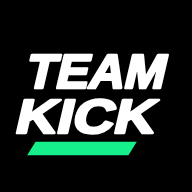
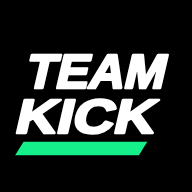
fix: 샘플 팀 번쩍임·로고 줄 길이·주로 뛰는 때 목록 (T28-T30)
사용자 제보 세 건과 공식 작성지침 대조 결과를 반영한다.

샘플 팀이 잠깐 보이던 것: demo 가 true 로 시작해서, 불러오는 동안 로그인한
사람에게도 샘플 팀이 먼저 보였다가 바뀌었다. 로그인 여부를 알기 전에는
아무것도 보여주지 않게 가림막을 뒀다. loading 값이 계산만 되고 쓰이지
않고 있었다.

로고 초록 줄을 보낸 그림에 가깝게 길게 늘였다. 아이콘 두 개도 다시 그렸다.

주로 뛰는 때를 자유 입력에서 목록 선택으로 바꾸고 "상관없음" 을 넣었다.
예전 기본값 "주말" 도 목록에 남겨 기존 팀이 그대로 통과하게 했다.

역할 권한은 이미 되어 있었다(운영진도 경기 만들기·참여 알림 가능). 확인만
하고 테스트로 굳혔다. 결과 확정·일정 변경·모집 여닫기는 주장만 한다.

LEGAL.md: 개인정보보호위원회 작성지침 2025.4 와 대조해 빠진 항목을 적었다.
국외 이전(호스팅·메일이 해외 사업자), 파기 절차, 쿠키, 보호책임자,
변경 고지가 빠져 있다.

검증(로컬): 테스트 79/79(5개 추가). 변이 검사 4종 모두 테스트가 잡았다 —
주로 뛰는 때 검증 제거 / 운영진 권한을 팀원에게 개방 / 주장 전용 동작을
운영진에게 개방 / 주장 역할도 바꿀 수 있게.
tsc 통과, lint 오류 77건 유지, 경고 19→18건(쓰지 않던 loading 을 쓰게 됨).

Claude-Session: https://claude.ai/code/session_0196CZKv6Zy8xEPrLkCwPaYf

Changed region(s): [[0.6562, 0.7188, 0.7812, 0.8125], [0.0625, 0.7188, 0.1875, 0.8125]]

diff --git a/app/screens.tsx b/app/screens.tsx
@@ -8,7 +8,7 @@ import {Table,TableHeader,TableHead,TableBody,TableRow,TableCell} from "@/compon
 import {toast} from "sonner";
 import {Upload,Plus,Search,MapPin,CalendarDays,Clock,Users,ShieldCheck,Copy,ExternalLink,Settings,Check,CheckCircle2,X,ArrowLeft,LogOut,Download,Pin,LoaderCircle,Goal,Handshake} from "lucide-react";
 import {Picker,Crest,imageUrl,Empty,GameBadge,GuestBadge,PlayerPhoto,Vote,koreanDate,time,localDay,inputTime,fromInput,opponent} from "./teamkick";
-import {currentVote,guestStatusOf,REGIONS,FORMATS,LEVELS,levelOf,type Row} from "@/lib/model";
+import {currentVote,guestStatusOf,REGIONS,FORMATS,LEVELS,DAYS,levelOf,type Row} from "@/lib/model";
 import {TERMS,PRIVACY} from "@/lib/legal";
 import {APP_VERSION} from "@/lib/version";
 export function AuthPanel({onDemo,mailReady=true,kakaoReady=false,resetToken=""}:{onDemo:()=>void;mailReady?:boolean;kakaoReady?:boolean;resetToken?:string}){
@@ -344,7 +344,7 @@ export function AppDialogs(p:any){
  {modal?.kind==="setOpponent"&&<form className="form-grid" onSubmit={e=>{e.preventDefault();save({type:"setOpponent",teamId:v.teamId,gameId:modal.gameId,external:form.external})}}>{label("상대팀 이름","external")}{submit("상대팀 저장")}</form>}
  {modal?.kind==="createGame"&&<form className="form-grid" onSubmit={e=>{e.preventDefault();save({...form,type:"createGame",teamId:v.teamId,start:fromInput(form.start),end:fromInput(form.end),deadline:form.deadline?fromInput(form.deadline):""})}}><div className="two-col fields">{label("경기 시작","start","datetime-local")}{label("경기 종료","end","datetime-local")}</div><VenuePicker v={v} field={field} ready={v.placeSearchReady!==false} demo={demo}/>{label("구장 이름","venue")}{label("구장 전체 주소","address")}<div className="two-col fields"><label>경기 형식<Picker value={form.format} onChange={(x:string)=>field("format",x)} options={["11인제","8인제","6인제","5인제"]}/></label>{label("필요 인원","needed","number")}</div>{label("투표 마감","deadline","datetime-local",false)}<p className="data-note">비워두면 경기 시작 시각에 마감돼요. 경기 시작보다 늦게는 정할 수 없어요.</p><div className="two-col fields"><label>지역<Picker value={form.region} onChange={(x:string)=>field("region",x)} options={REGIONS}/></label>{label("비용 안내 (원)","cost","number")}</div><label className="row"><Checkbox checked={form.secured} onCheckedChange={x=>field("secured",x===true)}/>구장을 확보했어요</label>{captain&&<label className="row"><Checkbox checked={form.listing} onCheckedChange={x=>{field("listing",x===true);if(x)field("external","")}}/>상대팀을 모집할게요</label>}{!form.listing&&label("외부 상대팀 이름 (없으면 미정)","external","text",false)}<label>팀 안내<textarea value={form.note??""} onChange={e=>field("note",e.target.value)}/></label>{submit("경기 등록하기")}</form>}
  {modal?.kind==="editTeam"&&!demo&&<div style={{marginBottom:18}}><ImageField title="팀 로고" ready={v.storageReady!==false} current={team?.logo} kind="teamLogo" teamId={v.teamId} disabled={busy} onSaved={(key:string)=>action({type:"setTeamLogo",teamId:v.teamId,key})}/></div>}
- {(modal?.kind==="createTeam"||modal?.kind==="editTeam")&&<form className="form-grid" onSubmit={e=>{e.preventDefault();save({...form,type:modal.kind,teamId:v.teamId})}}>{label("팀 이름","name")}<label>활동 지역<Picker value={form.region} onChange={(x:string)=>field("region",x)} options={REGIONS}/></label><div className="two-col fields"><label>주 경기 형식<Picker value={form.format??"11인제"} onChange={(x:string)=>field("format",x)} options={FORMATS}/></label><label>팀 실력<Picker value={levelOf(form.level)} onChange={(x:string)=>field("level",x)} options={LEVELS}/></label></div>{label("주로 뛰는 때","days")}<p className="data-note">예: 일요일 오전, 토요일 저녁. 상대팀을 찾을 때 보여요.</p><label>팀 소개<textarea value={form.description??""} onChange={e=>field("description",e.target.value)}/></label>{submit(modal.kind==="createTeam"?"운영자에게 등록 신청":"팀 정보 저장")}</form>}
+ {(modal?.kind==="createTeam"||modal?.kind==="editTeam")&&<form className="form-grid" onSubmit={e=>{e.preventDefault();save({...form,type:modal.kind,teamId:v.teamId})}}>{label("팀 이름","name")}<label>활동 지역<Picker value={form.region} onChange={(x:string)=>field("region",x)} options={REGIONS}/></label><div className="two-col fields"><label>주 경기 형식<Picker value={form.format??"11인제"} onChange={(x:string)=>field("format",x)} options={FORMATS}/></label><label>팀 실력<Picker value={levelOf(form.level)} onChange={(x:string)=>field("level",x)} options={LEVELS}/></label></div><label>주로 뛰는 때<Picker value={DAYS.includes(form.days)?form.days:"상관없음"} onChange={(x:string)=>field("days",x)} options={DAYS}/></label><p className="data-note">상대팀을 찾을 때 보여요. 정해두지 않았으면 <strong>상관없음</strong> 을 고르세요.</p><label>팀 소개<textarea value={form.description??""} onChange={e=>field("description",e.target.value)}/></label>{submit(modal.kind==="createTeam"?"운영자에게 등록 신청":"팀 정보 저장")}</form>}
  {modal?.kind==="openGuests"&&<form className="form-grid" onSubmit={e=>{e.preventDefault();save({type:"openGuests",teamId:v.teamId,gameId:modal.gameId,needed:Number(form.needed)})}}>{label("모집 인원","needed","number")}<p className="data-note">승인 인원이 모집 인원에 도달하면 서버에서 자동으로 마감돼요. 승인 대기자는 인원에 포함되지 않아요.</p>{submit("용병 모집 시작")}</form>}
  {modal?.kind==="applyGuest"&&<form className="form-grid" onSubmit={e=>{e.preventDefault();save({type:"applyGuest",teamId:modal.listing.teamId,gameId:modal.listing.gameId,name:form.name,position:form.position,number:form.number,message:form.message})}}><strong>{modal.listing.teamName}</strong><p className="data-note">{koreanDate(modal.listing.start)} {time(modal.listing.start)} · {modal.listing.venue}</p><p className="data-note">용병에게는 경기 정보만 공개되고 팀 내부 정보는 보이지 않아요.</p>{label("이름","name")}<div className="two-col fields">{label("등번호","number","number")}<label>포지션<Picker value={form.position??"MF"} onChange={(x:string)=>field("position",x)} options={["GK","DF","MF","FW"]}/></label></div>{label("남길 말","message","text",false)}{submit("용병 신청")}</form>}
  {(modal?.kind==="profile"||modal?.kind==="editMember")&&!demo&&modal.member&&<div style={{marginBottom:18}}><ImageField title="선수 사진" ready={v.storageReady!==false} current={modal.member.photo} kind="memberPhoto" teamId={v.teamId} memberId={modal.member.id} disabled={busy} onSaved={(key:string)=>action({type:"setMemberPhoto",teamId:v.teamId,memberId:modal.member.id,key}).then(()=>setModal(null))}/></div>}

diff --git a/app/teamkick.tsx b/app/teamkick.tsx
@@ -79,6 +79,9 @@ export default function TeamKick({resetToken="",verifyToken="",kakaoNote=""}:{re
  const teamPicker=<Picker value={v.teamId||"none"} onChange={switchTeam} options={(demo?v.teams.filter((t:Row)=>["team-a","team-b"].includes(t.id)):v.teams.filter((t:Row)=>v.mine?.some((m:Row)=>m.teamId===t.id&&m.status==="active"))).map((t:Row)=>({value:t.id,label:t.name})).concat(v.teamId?[]:[{value:"none",label:"소속 팀 없음"}])}/>;
  const common={v,team,demo,busy,action,run,setModal,setView,toActual,manager,captain};
  const goDate=(day:string)=>{setSelected(day);setMonth(day.slice(0,7));setDateFilter(true);setView("schedule")};
+ // 로그인했는지 알기 전에는 아무것도 보여주지 않는다. demo 가 true 로 시작하므로
+ // 이 가림막이 없으면 로그인한 사람에게도 샘플 팀이 잠깐 보였다가 바뀐다.
+ if(loading)return <div className="app-booting" aria-busy="true" aria-label="불러오는 중"/>;
  return <><SidebarProvider style={{"--sidebar-width":"232px"} as React.CSSProperties}><Sidebar collapsible="none" className="nav-side hidden md:flex sticky top-0 h-svh"><div className="brand"><span className="brand-mark">K</span>TEAMKICK</div><div className="team-select"><div className="nav-label" style={{padding:"0 0 10px"}}>MY TEAM</div>{teamPicker}</div><SidebarContent><div><div className="nav-label">TEAM SPACE</div><SidebarMenu>{nav.map(n=><SidebarMenuItem key={n.id}><SidebarMenuButton className="nav-item" isActive={view===n.id} onClick={()=>setView(n.id)}><n.icon/><span>{n.label}</span>{n.id==="matching"&&v.requests?.some((r:Row)=>r.status==="pending")&&<span className="badge badge-green">N</span>}</SidebarMenuButton></SidebarMenuItem>)}</SidebarMenu></div></SidebarContent><div className="side-note"><ShieldCheck size={19} style={{color:"#45955e",marginBottom:8}}/><strong>함께 뛰는 우리 팀</strong><p className="muted">경기 일정부터 기록까지<br/>한 곳에서 이어가세요.</p></div><div className="nav-bottom">{v.isOwner&&<button className="btn btn-ghost" onClick={()=>setView("admin")}><ShieldCheck/>서비스 관리</button>}<button className="btn btn-ghost" onClick={()=>setModal({kind:"settings"})}><Settings/>설정</button></div></Sidebar><div className="workspace"><header className="topbar"><div className="breadcrumb"><Home size={15}/><ChevronRight size={13}/><span>{team?.name??"팀 공간"}</span><ChevronRight size={13}/><strong>{nav.find(n=>n.id===view)?.label??"서비스 관리"}</strong></div><div className="brand mobile-brand"><span className="brand-mark">K</span>팀킥</div><div className="top-actions"><span className="small muted desktop-only">{koreanDate(new Date().toISOString())}</span><button className="icon-button" aria-label="알림" onClick={()=>{setModal({kind:"notifications"});if(v.notifications?.length)run({type:"readNotifications"})}}><Bell size={20}/>{v.notifications?.some((n:Row)=>!n.read)&&<i className="notification-dot"/>}</button><button className="row" onClick={()=>setModal({kind:"settings"})}><span className="avatar">{demo?"샘플":v.user?.name?.slice(-2)||"MY"}</span><span className="small top-user-name">{demo?"샘플 주장":v.user?.name||"내 계정"}</span></button></div></header><main className="page-content">
  {error&&<div className="error-bar">{error} <button onClick={()=>refresh(v.teamId).then(()=>setError("")).catch(e=>setError(e.message))}>다시 시도</button></div>}
  {verifyNote&&<div className="data-note" role="status" style={{marginBottom:14}}>{verifyNote}</div>}

diff --git a/lib/model.ts b/lib/model.ts
@@ -77,6 +77,8 @@ export function requireTeam(s:State,t:string,u:string,level="member",write=true)
 // 상대팀을 고를 때 보이는 값들. 목록 밖 값이 들어오면 매칭 화면이 깨진다.
 export const FORMATS=["11인제","8인제","6인제","5인제"];
 export const LEVELS=["입문","초급","중급","상급","선수 출신 포함"];
+// 주로 뛰는 때. "주말" 은 예전 기본값이라 목록에 남겨 둔다.
+export const DAYS=["상관없음","평일 저녁","주말","토요일 오전","토요일 오후","토요일 저녁","일요일 오전","일요일 오후","일요일 저녁"];
 // 목록을 만들기 전에 저장된 값이 있다. 고르기 화면이 비어 보이지 않게 맞춰 준다.
 const OLD_LEVELS:Record<string,string>={"하":"초급","중":"중급","상":"상급"};
 export const levelOf=(v:unknown)=>{const x=String(v??"").trim();return LEVELS.includes(x)?x:(OLD_LEVELS[x]??"중급")};
@@ -108,7 +110,7 @@ export function applyCommand(s:State,a:Actor,c:any,now=Date.now()):any{
  else if(type==="createTeam"){
   ensure(a.verified!==false,"이메일 확인을 먼저 해주세요. 받은 편지함에서 확인 링크를 눌러주세요.",403);
   ensure(s.teams.filter(x=>x.applicant===a.id&&x.status==="pending").length<3,"대기 중인 팀 신청을 먼저 확인해주세요.");
-  const team={id:id(),name:textValue(c.name,40),region:regionValue(c.region),description:textValue(c.description,500,false),format:pick(c.format||"11인제",FORMATS,"주 경기 형식"),days:textValue(c.days||"주말",30),level:pick(c.level||"중급",LEVELS,"팀 실력"),status:"pending",applicant:a.id,applicantName:a.name,at:stamp,reason:"",color:"green"};
+  const team={id:id(),name:textValue(c.name,40),region:regionValue(c.region),description:textValue(c.description,500,false),format:pick(c.format||"11인제",FORMATS,"주 경기 형식"),days:pick(c.days||"주말",DAYS,"주로 뛰는 때"),level:pick(c.level||"중급",LEVELS,"팀 실력"),status:"pending",applicant:a.id,applicantName:a.name,at:stamp,reason:"",color:"green"};
   s.teams.push(team);const o=s.settings.find(x=>x.id==="owner");if(o)userNotice(s,o.userId,"새로운 팀 등록 요청",team.name+"의 등록을 확인해주세요.");output={teamId:team.id};
  }
  else if(type==="approveTeam"||type==="rejectTeam"||type==="suspendTeam"||type==="restoreTeam"){
@@ -153,7 +155,7 @@ export function applyCommand(s:State,a:Actor,c:any,now=Date.now()):any{
   // 팀을 만들 때만 정할 수 있고 나중에 고칠 수 없었다. 팀 사정은 바뀐다.
   // 배포 중에 예전 화면을 열어둔 사람이 보낼 수 있다. 값이 없으면 지금 것을 지킨다.
   if(c.format!==undefined)team.format=pick(c.format,FORMATS,"주 경기 형식");
-  if(c.days!==undefined)team.days=textValue(c.days,30);
+  if(c.days!==undefined)team.days=pick(c.days,DAYS,"주로 뛰는 때");
   if(c.level!==undefined)team.level=pick(c.level,LEVELS,"팀 실력");
  }
  else if(type==="createGame"){

diff --git a/app/splash.tsx b/app/splash.tsx
@@ -12,6 +12,6 @@ export function SplashMark(){
    <text x="118" y="236" fontSize="128" textLength="372" lengthAdjust="spacingAndGlyphs">TEAM</text>
    <text x="118" y="356" fontSize="128" textLength="372" lengthAdjust="spacingAndGlyphs">KICK</text>
   </g>
-  <polygon points="182,378 452,378 438,414 168,414" fill="#16f08a" transform="skewX(-13)"/>
+  <polygon points="150,378 480,378 466,414 136,414" fill="#16f08a" transform="skewX(-13)"/>
  </svg>;
 }

diff --git a/app/globals.css b/app/globals.css
@@ -25,3 +25,5 @@
 @keyframes splash-in{from{opacity:0}to{opacity:1}}
 html[data-splash="skip"] #teamkick-splash{display:none}
 @media(prefers-reduced-motion:reduce){#teamkick-splash{animation:none}}
+
+.app-booting{position:fixed;inset:0;background:var(--background)}

diff --git a/LEGAL.md b/LEGAL.md
@@ -78,6 +78,40 @@ D1 이 사라지면 복구할 다른 수단이 없어 만들었다.
       기간 경과로 갈음할지 — 변호사 검토 항목에 포함한다.)
 
 
+## 2-3. 공식 작성지침과 대조한 결과 (2026-09-16)
+
+개인정보보호위원회 「개인정보 처리방침 작성지침」 2025.4 (사용자 제공)의
+기재사항 24개와 `lib/legal.ts` 의 `PRIVACY` 초안(9개 항목)을 대조했다.
+
+**들어 있는 것**: 제목 / 처리 목적 / 처리하는 항목 / 보유 기간 / 제3자 제공 /
+처리 위탁 / 정보주체의 권리·행사방법 / 만 14세 미만 / 안전성 확보조치 / 문의처.
+
+**빠진 것 — 법정 필수**
+
+- [ ] **개인정보의 파기 절차 및 방법** (법 제30조제1항 3의2) — 무엇을 언제 어떻게
+      지우는지. 코드에는 있다(탈퇴 시 삭제, `prune` 의 보관 기간). 문서에 없다.
+- [ ] **개인정보 보호책임자** (법 제31조) — 성명·연락처. 소상공인은 지정 의무가
+      면제되고 사업주가 자동으로 보호책임자가 되지만 **표기는 해야 한다.**
+- [ ] **개인정보 처리방침의 변경에 관한 사항** (지침 24번) — 바뀌면 어떻게 알리는지.
+
+**빠진 것 — 우리 서비스에 해당**
+
+- [ ] **국외 이전** (영 제31조제1항 2호) — 호스팅·저장(OpenAI/Cloudflare)과
+      메일 발송(Brevo)이 **해외 사업자**다. 이전받는 자, 국가, 시점·방법, 항목,
+      목적, 보유 기간, 거부 방법을 적어야 한다. **지금 초안에 한 줄도 없다.**
+- [ ] **자동 수집 장치(쿠키 등)** (법 제30조제1항 7호) — 로그인 유지에 세션 쿠키를
+      쓴다. 설치·운영과 **거부 방법**을 적어야 한다.
+- [ ] **위탁 업체 실명** — 사용자 확인 완료(2026-09-16):
+      호스팅·DB = OpenAI(ChatGPT Sites) + Cloudflare / 메일 = Brevo /
+      구장 검색·로그인 = 카카오.
+
+**빠진 것 — 권장**
+
+- [ ] **권익침해 구제방법** — 개인정보분쟁조정위원회, 개인정보침해신고센터 등 연락처.
+
+> 출처: 개인정보보호위원회 「개인정보 처리방침 작성지침」 2025.4.
+> 이 대조는 **문서 대조일 뿐 법률 자문이 아니다.** 변호사 검토 항목은 그대로 남는다.
+
 ## 3. 공개 전에 해야 할 것
 
 - [ ] **약관·개인정보처리방침 변호사 검토** (`lib/legal.ts` 초안)

diff --git a/TASKS.md b/TASKS.md
@@ -189,8 +189,16 @@
       만들 때만 정할 수 있고 못 고치던 것을 `팀 정보 수정` 에서 고칠 수 있게 했다.
       `level` 은 매칭 화면에 보이면서도 어디에서도 정할 수 없던 값이었다.
       목록(`FORMATS`·`LEVELS`)으로 서버에서 검증한다.
-- [ ] `T27` **팀원이 팀 정보 수정을 요청** — `TODO`
-      지금은 주장만 고칠 수 있다. 팀원이 알릴 방법이 없다.
+- [x] `T27` 팀원이 팀 정보 수정을 요청 — **필요 없음으로 정리**(2026-09-16 사용자 결정)
+- [x] `T28` **주로 뛰는 때 목록화 + 상관없음** — **완료** (2026-09-16)
+- [x] `T29` **샘플 팀이 잠깐 보이던 것 고침** — **완료** (2026-09-16)
+      `demo` 가 true 로 시작해, 불러오는 동안 로그인한 사람에게도 샘플이 보였다.
+- [x] `T30` **역할 권한 확인** — 이미 되어 있었다. 테스트로 굳혔다.
+      운영진은 경기 만들기·참여 알림 가능, 결과 확정·일정 변경은 주장만.
+- [ ] `T31` **웹 푸시 알림** — `TODO` (사용자 요청 2026-09-16, 다음 작업)
+- [ ] `T32` **개인정보 처리방침 보완** — `TODO`
+      공식 작성지침 2025.4 와 대조해 빠진 항목을 `LEGAL.md` 2-3 에 적었다.
+      국외 이전·파기 절차·쿠키·보호책임자·변경 고지가 빠져 있다.
 - [ ] `T20` **구글·네이버 로그인 추가 후 이메일 가입 제거** — `TODO`
       (2026-09-16 사용자 결정) 네이버 메일 도달 문제를 우회하는 방법이기도 하다.
       구글·네이버 개발자 콘솔에서 클라이언트 ID·시크릿을 받아야 시작할 수 있다.
